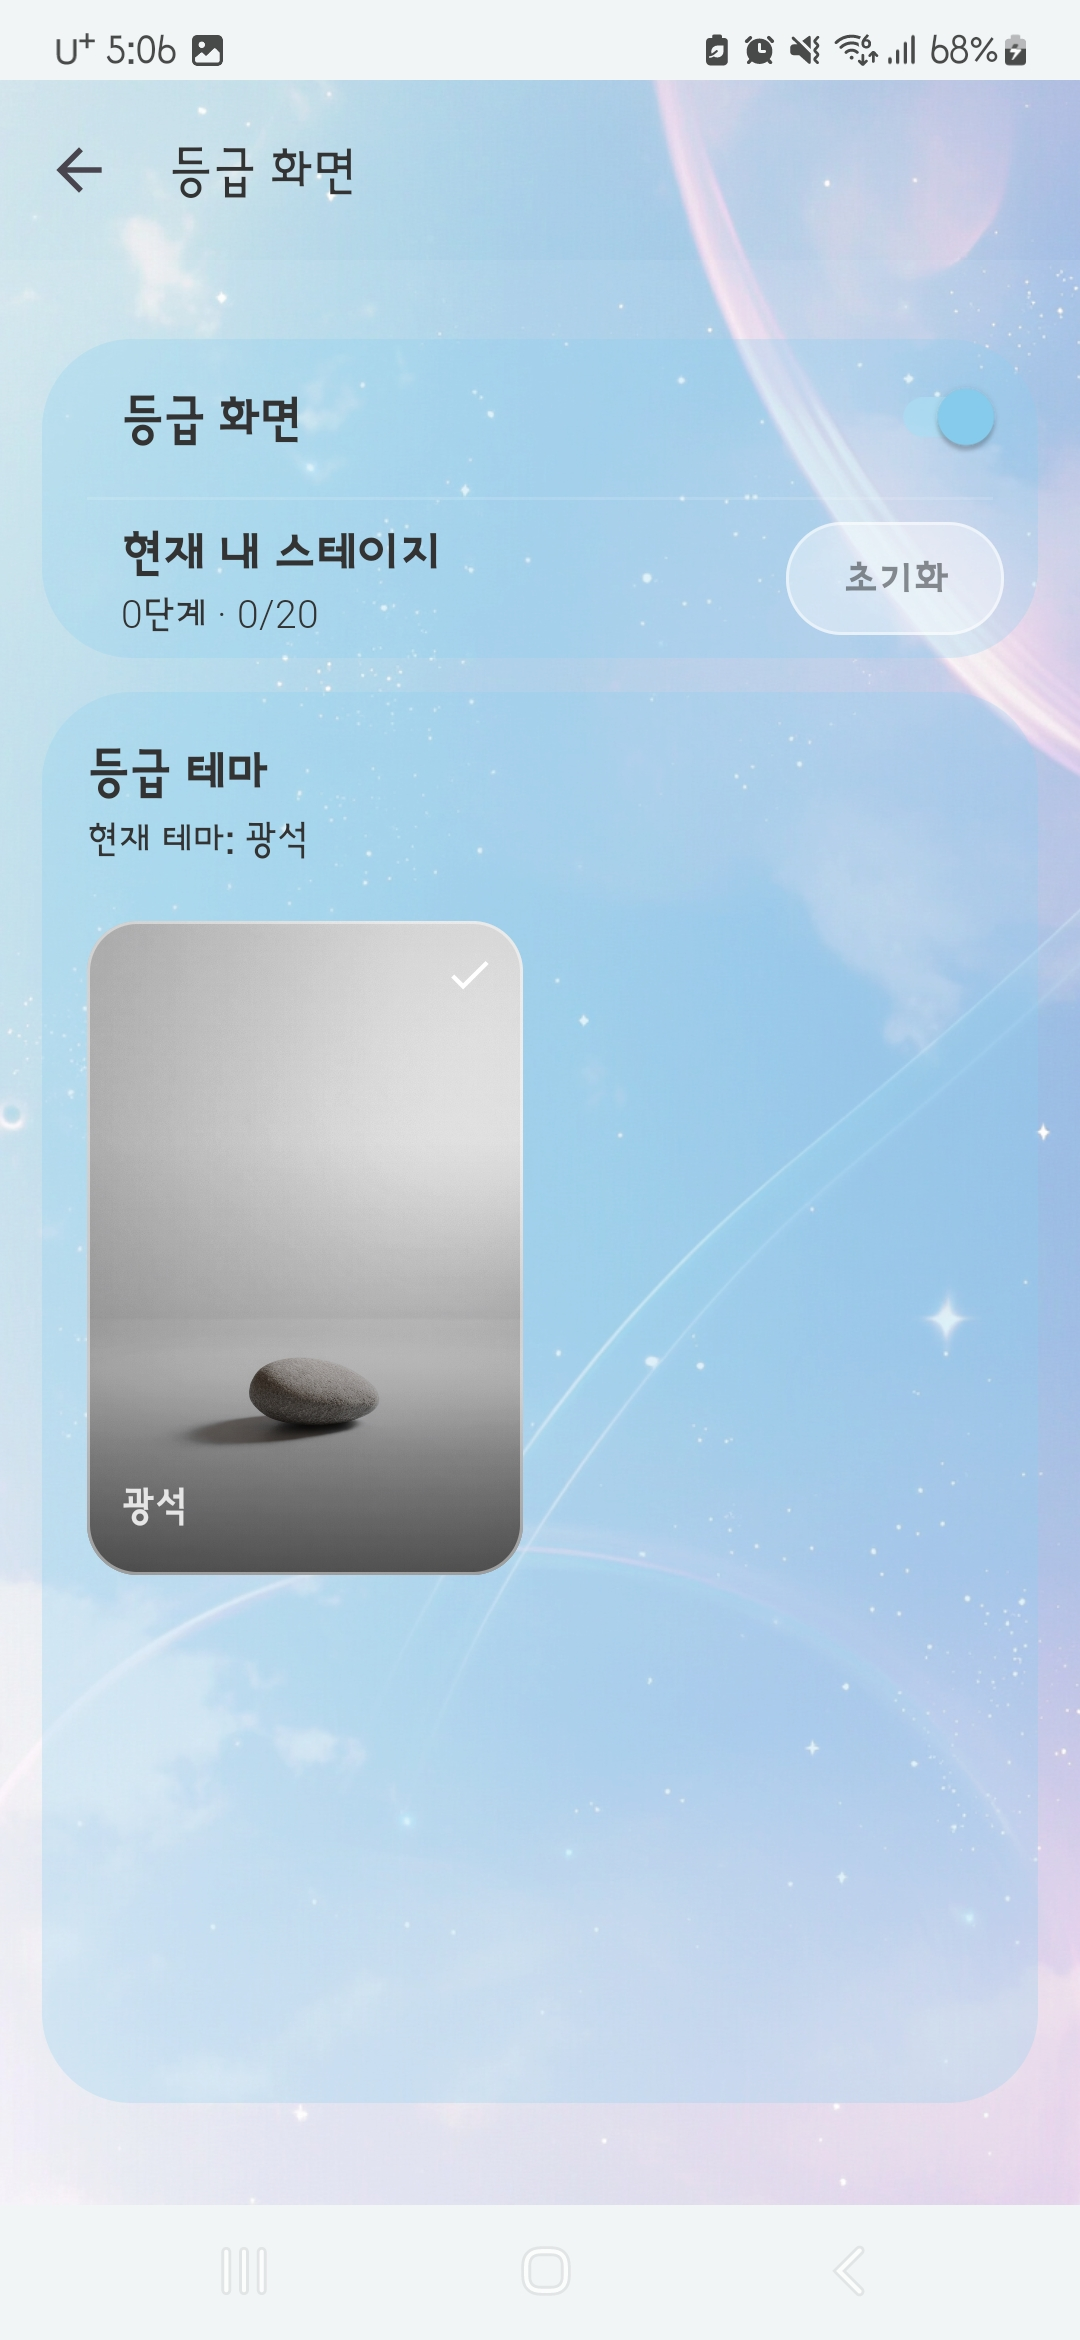
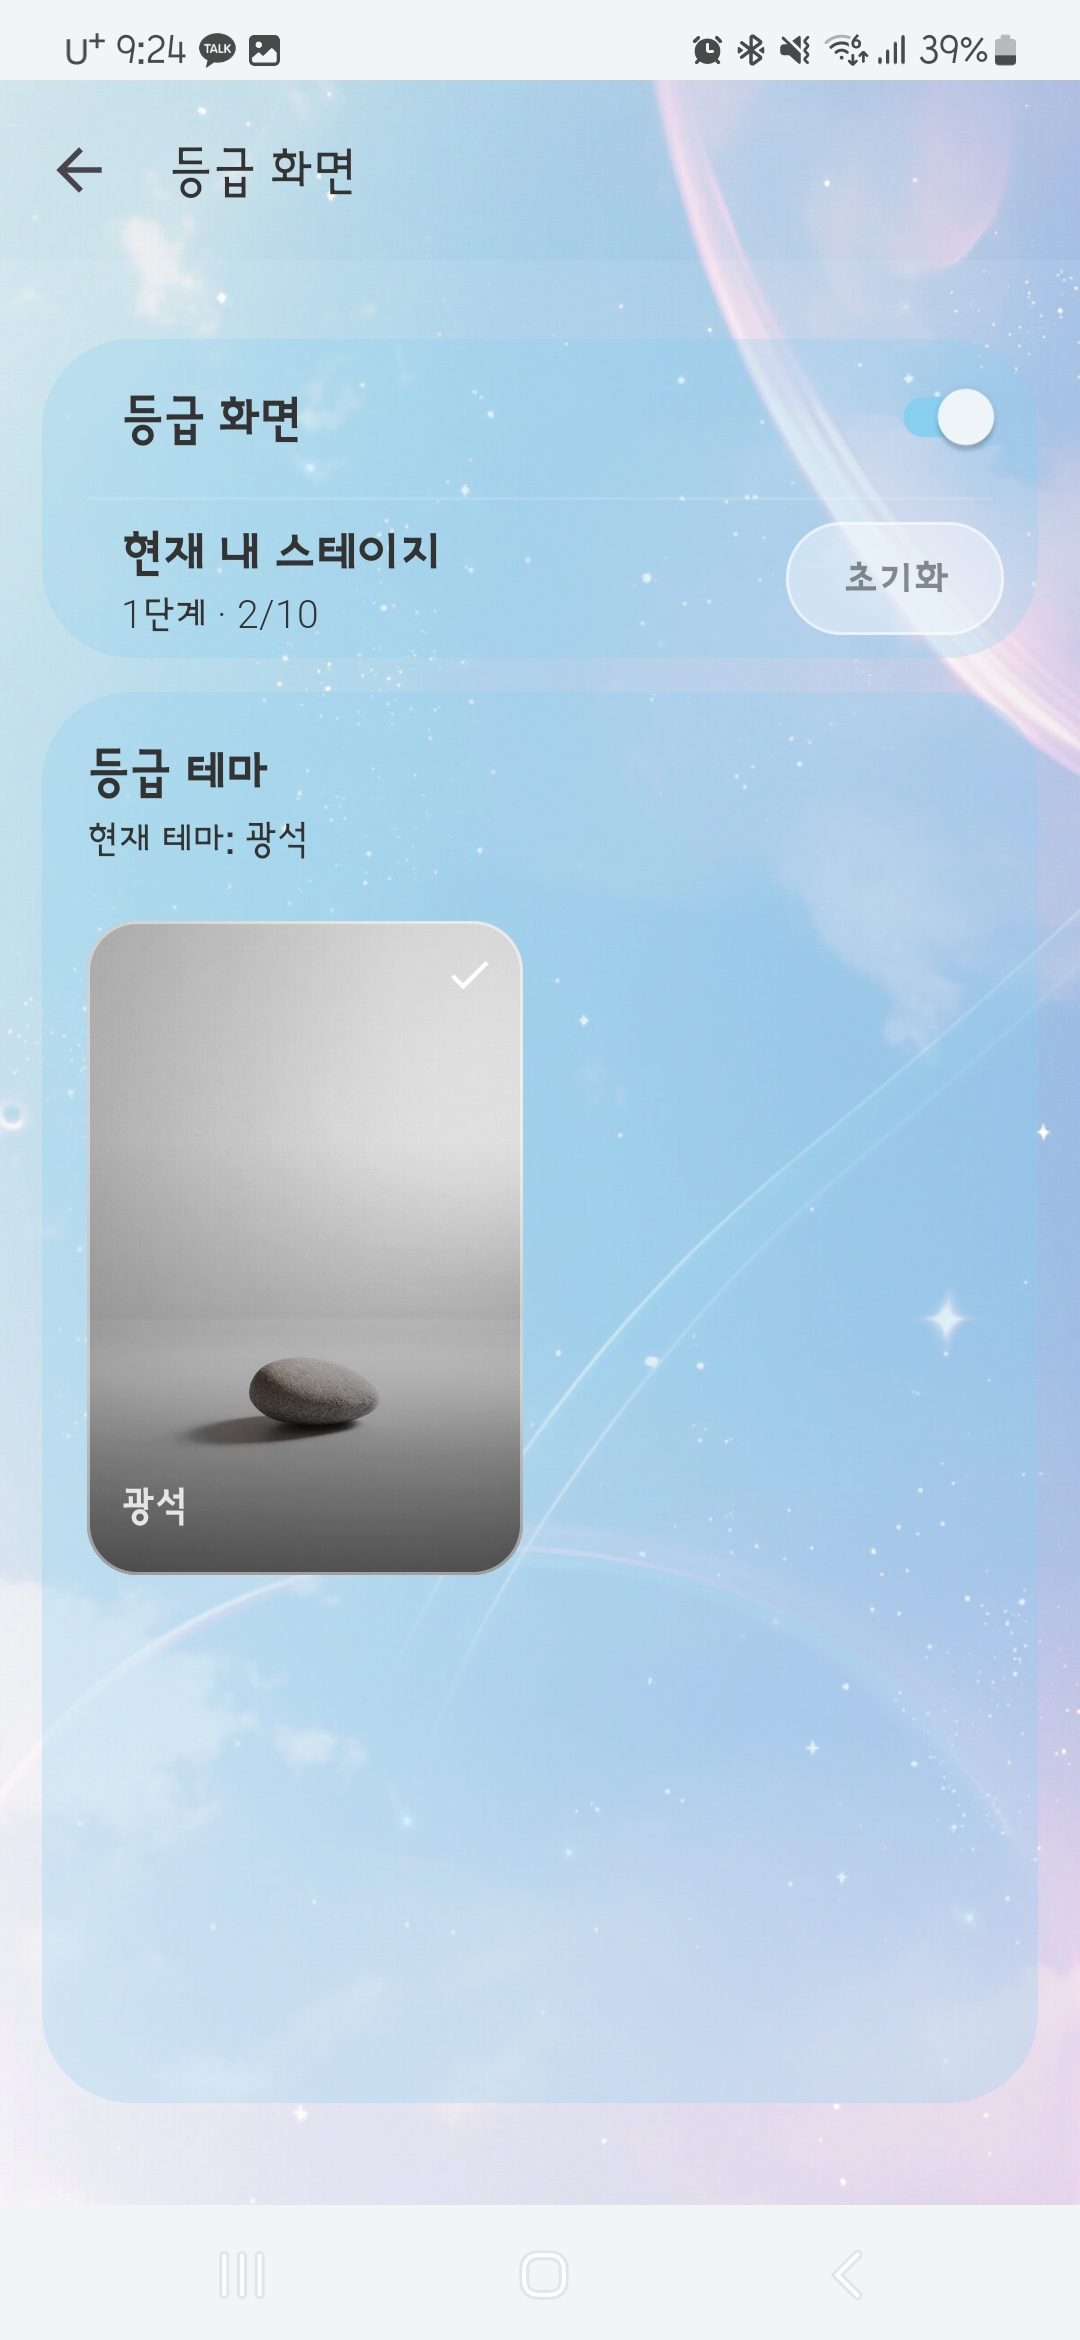
Add files via upload

Changed region(s): [[0.6417, 0.0, 0.9472, 0.0312], [0.0611, 0.0, 0.275, 0.0312], [0.825, 0.156, 0.9167, 0.1872]]

diff --git a/grade-screen-en.html b/grade-screen-en.html
@@ -16,8 +16,8 @@
 
     <p class="paragraph">
       This feature is applied to the screen that appears when a general alarm rings.
-      If you tap the dismiss button within 6 seconds when the first alarm of the day rings, your count will increase.
-      When the count reaches 20, you will move up to the next stage.
+      If you tap the dismiss button within 7 seconds when the first alarm of the day rings, your count will increase.
+      When the count reaches 10, you will move up to the next stage.
     </p>
 
     <section class="section">

diff --git a/grade-screen.html b/grade-screen.html
@@ -16,8 +16,8 @@
 
     <p class="paragraph">
       이 기능은 일반 알람이 울릴 때 나타나는 화면에 적용되며,
-      하루의 첫 알람이 울릴 때 6초 안에 알람 끄기를 누르면 카운트가 누적됩니다.
-      누적 횟수가 20회 쌓이면 다음 단계로 올라갑니다.
+      하루의 첫 알람이 울릴 때 7초 안에 알람 끄기를 누르면 카운트가 누적됩니다.
+      누적 횟수가 10회 쌓이면 다음 단계로 올라갑니다.
     </p>
 
     <section class="section">
